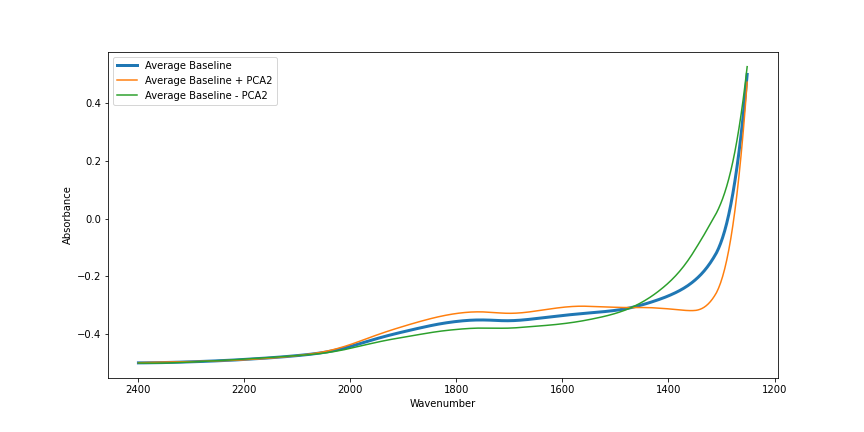
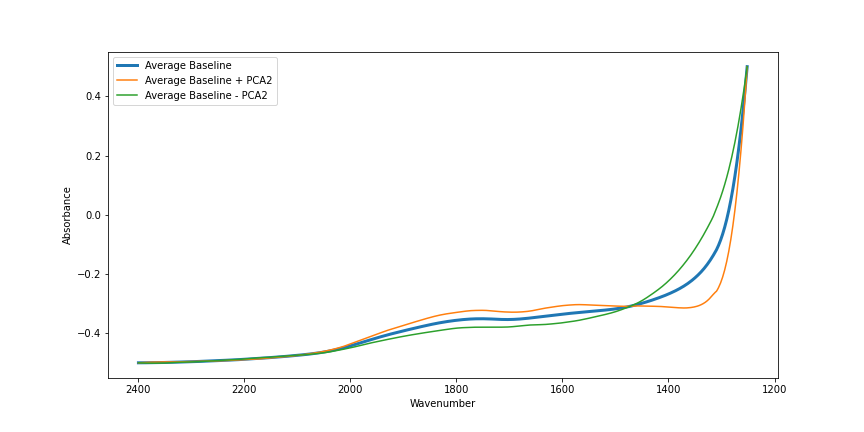
Water Free Fitting works

diff --git a/PCA_Baseline_vs_H20.py b/PCA_Baseline_vs_H20.py
@@ -103,7 +103,7 @@ Data, Mean_baseline = scale_data(Data_init, Wavenumber)
 
 # %%
 def savgol_filter(x):
-    return signal.savgol_filter(x, 101, 3)
+    return signal.savgol_filter(x, 151, 3)
 
 Smoothed= np.apply_along_axis(savgol_filter,0,Data)
 
@@ -122,7 +122,7 @@ ax.invert_xaxis()
 ax.set_xlabel('Wavenumber')
 ax.set_ylabel('Absorbance')
 #%%
-Data = Smoothed
+#Data = Smoothed
 # %%
 # Calculates the Principle components
 pca = PCA(4, ) # Number of PCA vectors to calculate 
@@ -265,6 +265,8 @@ PCA_No_Peaks_DF = H2O_peak_cut(H2O_free_PCA_DF, wn_cut_low, wn_cut_high, return_
 Average_baseline= pd.Series( Mean_baseline, index= Wavenumber)
 Avg_BSL_no_peaks = H2O_peak_cut(Average_baseline, wn_cut_low, wn_cut_high, return_DF=True)
 
+tilt = pd.Series(np.arange(0, len(Average_baseline)), index=Wavenumber)
+tilt_cut = H2O_peak_cut(tilt, wn_cut_low, wn_cut_high, return_DF=True)
 # %%
 # Synthetic Peaks Choose peak shape, position and width. In the future these will be fit parameters
 Peak1 = pd.Series( Lorentzian(x=Wavenumber, center=1635, half_width=55, amp=1),index=Wavenumber)
@@ -276,10 +278,10 @@ Peak3 = pd.Series(Gauss(x=Wavenumber, mu=1515, sd=30, A=1), index=Wavenumber)
 # uses the PCA components and the synthetic peaks to mad elinear combinations that fit the data. T
 
 
-def No_H2O_fit(Spec, Average_baseline, PCA_DF, Wavenumber = Wavenumber): 
+def No_H2O_fit(Spec, Average_baseline, PCA_DF,  tilt, Wavenumber = Wavenumber): 
     
     offset = pd.Series(np.ones(len(Average_baseline)), index= Wavenumber)
-    tilt = pd.Series(np.arange(0, len(Average_baseline)), index=Wavenumber)
+    #tilt = pd.Series(np.arange(0, len(Average_baseline)), index=Wavenumber)
     
     Baseline_Matrix = pd.concat([Average_baseline, PCA_DF, offset, tilt,], axis=1)
 
@@ -309,23 +311,68 @@ def plot_NoH2O_results(Spectrum, Baseline_Matrix, fit_param, Wavenumber):
     return ax
 
 # %%
+def tilt_fit(Spectrum, Baseline_Matrix, fit_param, Wavenumber):
 
-#This line subtracts the mean from your data
-Test_Spectrum = Full_No_Peaks_Values[:,0]
-Baseline_Matrix, fit_param1 = No_H2O_fit(
-    Spec=Test_Spectrum, Average_baseline=Avg_BSL_no_peaks, PCA_DF=PCA_No_Peaks_DF,
-    Wavenumber = Avg_BSL_no_peaks_Wn)
-
-#%%
-
-plot_NoH2O_results(Test_Spectrum , Baseline_Matrix=Baseline_Matrix,
-                      fit_param=fit_param1, Wavenumber=Avg_BSL_no_peaks_Wn)
+    offset = pd.Series(np.ones(len(Wavenumber)), index= Wavenumber)
+    tilt = pd.Series(np.arange(0, len(Wavenumber)), index=Wavenumber)
 
 
+    Tilt_Matrix = pd.concat([offset, tilt], axis=1)
 
+    Tilt_Matrix = np.matrix(Tilt_Matrix)
 
+    fit_param = np.linalg.lstsq(Tilt_Matrix, Spec)  
 
 # %%
+#This line subtracts the mean from your data
+
+Test_Spectrum = Full_No_Peaks_Values[:,9]
+Baseline_Matrix, fit_param1 = No_H2O_fit(
+    Spec=Test_Spectrum, Average_baseline=Avg_BSL_no_peaks, PCA_DF=PCA_No_Peaks_DF,
+    Wavenumber = Avg_BSL_no_peaks_Wn, tilt = tilt_cut)
+
+
+
+plot_NoH2O_results(Test_Spectrum , Baseline_Matrix=Baseline_Matrix,
+                    fit_param=fit_param1, Wavenumber=Avg_BSL_no_peaks_Wn)
+
+# %% Baseline Matrix without peaks removed
+Average_baseline= pd.Series( Mean_baseline, index= Wavenumber)
+
+Full_Baseline_Matrix, fit_param = Carbonate_baseline_fit(
+    Spec=Data[:,0] , Average_baseline=Average_baseline, n_PCA_vectors=2, PCA_vectors=PCA_vectors)
+
+Full_Baseline_Matrix= Full_Baseline_Matrix[:, 0:-3]
+#%%
+# make list of all fit parameters to use to replace data. 
+Fits = []
+No_H2O_baseline = []
+ 
+
+for spec in Full_No_Peaks_Values.T:
+    Baseline_Matrix, fit_param = No_H2O_fit(
+    Spec=spec, Average_baseline=Avg_BSL_no_peaks, PCA_DF=PCA_No_Peaks_DF,
+    Wavenumber = Avg_BSL_no_peaks_Wn, tilt = tilt_cut)
+
+    Fits.append(fit_param)
+
+    base_full = Full_Baseline_Matrix*np.matrix(fit_param[0]).T
+    No_H2O_baseline.append(base_full)
+
+# %%
+
+spec_idx = 20
+
+fig, ax = plt.subplots(figsize = (12,6))
+plt.plot(Wavenumber, No_H2O_baseline[spec_idx])
+plt.plot(Wavenumber, H2O_Data_init[:,spec_idx] )
+
+plt.legend()
+ax.invert_xaxis()
+ax.legend()
+ax.set_xlabel('Wavenumber')
+ax.set_ylabel('Absorbance')
+ # %%
 # Function to fit the baselines: 
 # uses the PCA components and the synthetic peaks to mad elinear combinations that fit the data. T
 
